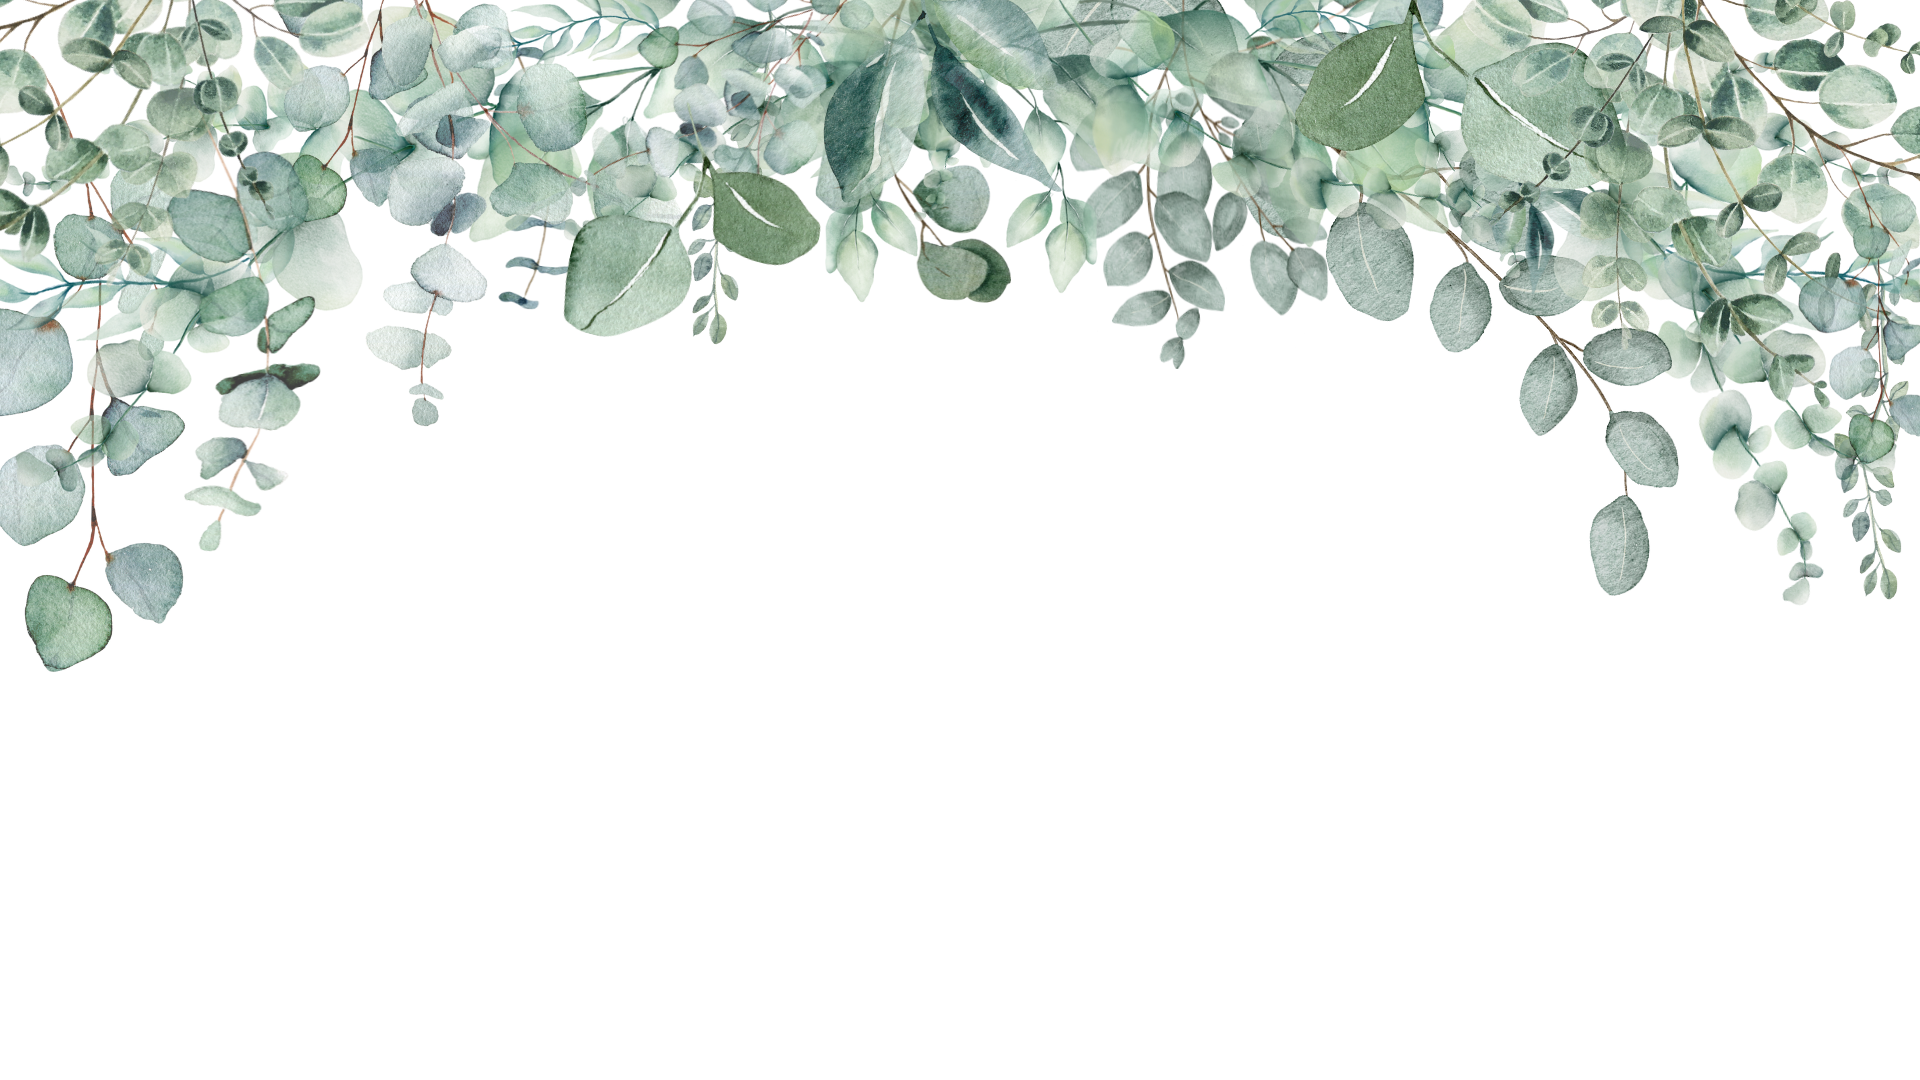
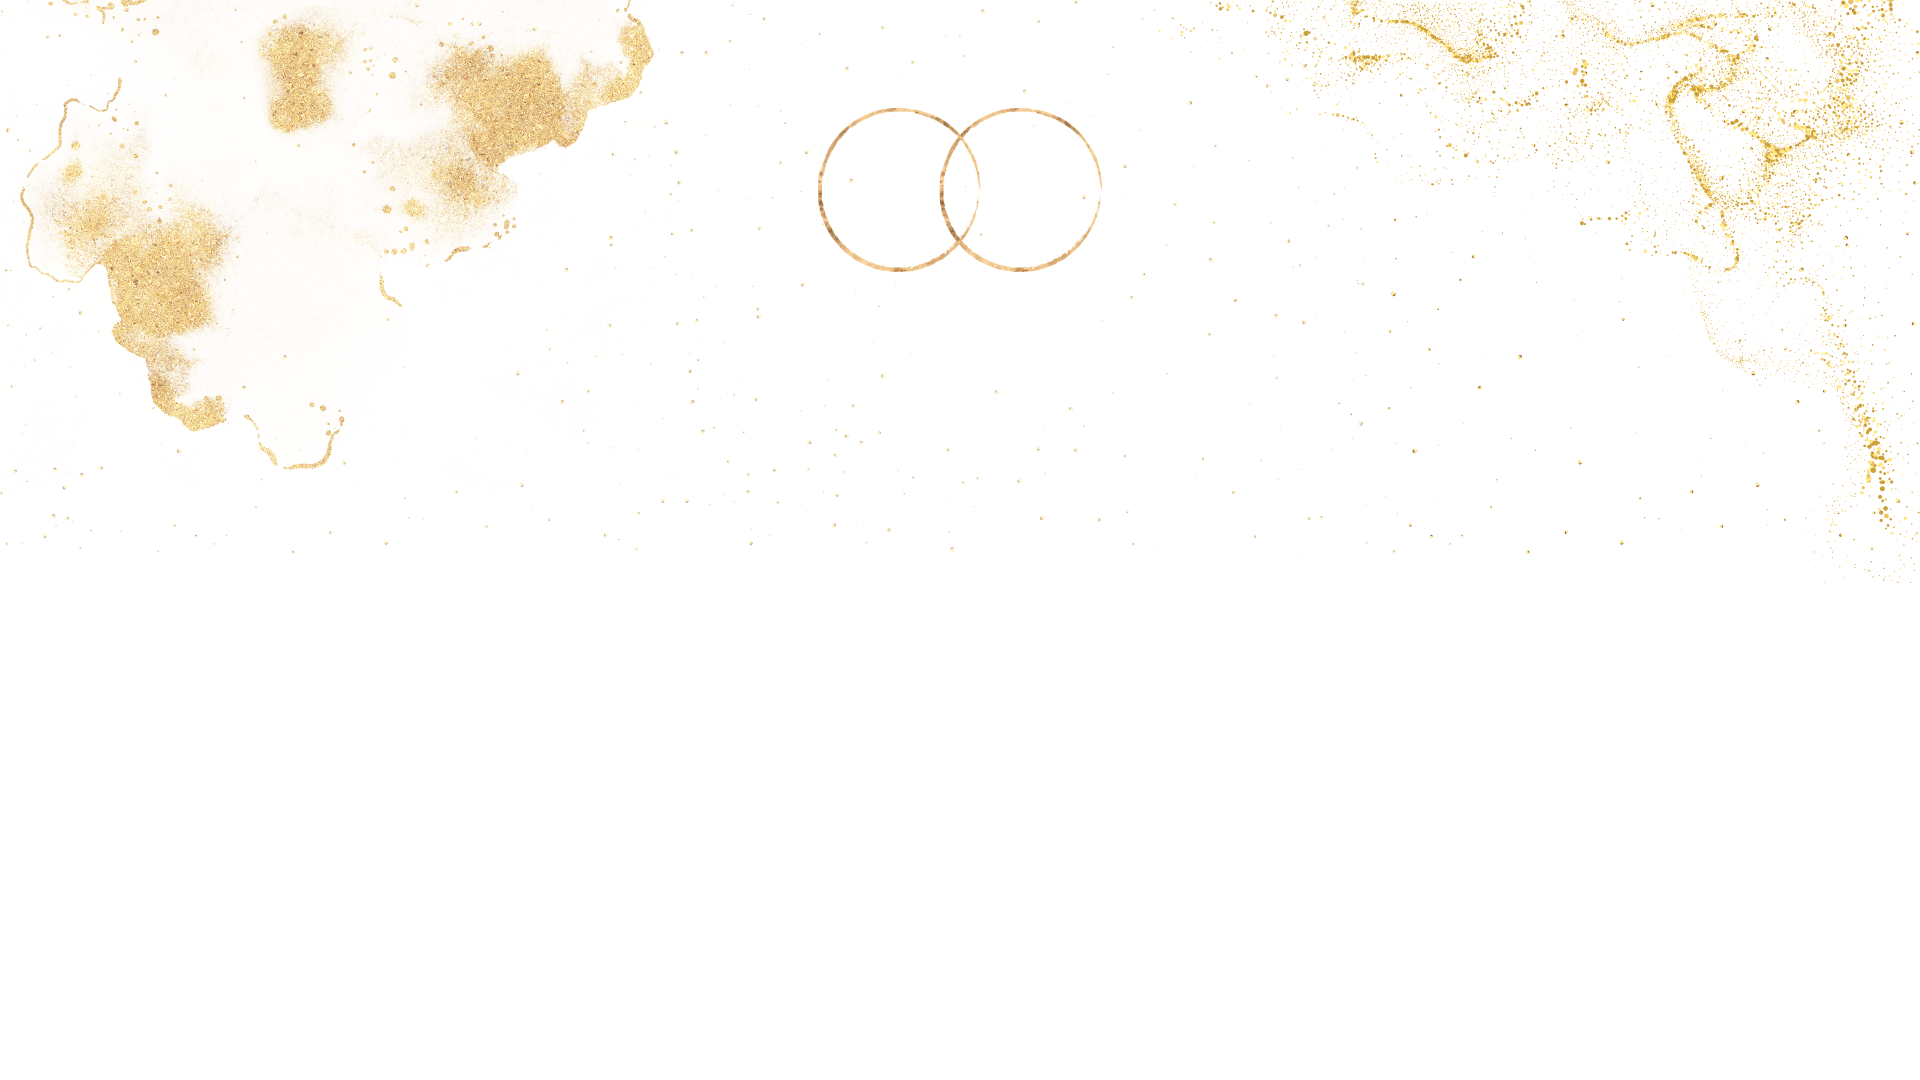
changes

Changed region(s): [[0.0, 0.0, 1.0, 0.6111]]

diff --git a/components/About.tsx b/components/About.tsx
@@ -1,8 +1,16 @@
 import React from "react";
 import Image from "next/image";
+import {
+  Carousel,
+  CarouselContent,
+  CarouselItem,
+  CarouselNext,
+  CarouselPrevious,
+} from "@/components/ui/carousel";
 
 function About() {
   return (
+    <>
     <div className=" w-full flex flex-col lg:flex-row px-6 xl:px-12 rounded-md">
      
       <div className="h-[90vh] md:h-[70vh] xl:h-[70vh] w-full bg-zlata/40 flex flex-col justify-center items-center lg:py-8 rounded-md">
@@ -22,24 +30,73 @@ function About() {
       </div>
       <div className="relative h-[60vh] -top-[10vh] lg:top-0 lg:h-auto w-full lg:w-[50%] xl:w-[35%] bg-zlata rounded-md">
           <Image
-            src={"/DSC_6254.jpeg"}
+            src={"/foto1.jpg"}
             alt="img1"
             fill
-            className="object-cover object-center md:object-center rounded-md ring-4 ring-bezova ring-offset-8 ring-opacity-50"
+            className="hidden lg:block object-cover object-center md:object-center rounded-md ring-4 ring-bezova ring-offset-8 ring-opacity-50"
           />
+          {/*carousel*/}
+          <Carousel opts={{ loop:true}} className="relative lg:hidden w-full h-[60vh] rounded-md">
+            <CarouselContent className="w-full h-[60vh]">
+              <CarouselItem className="h-full w-full">
+                <div className="w-full h-full relative">
+                  <Image
+                    src={"/foto1.jpg"}
+                    alt="foto1"
+                    className="object-center object-cover"
+                    fill
+                  />
+                </div>
+              </CarouselItem>
+              <CarouselItem className="h-full w-full">
+                <div className="w-full h-full relative">
+                  <Image
+                    src={"/foto2.jpg"}
+                    alt="foto2"
+                    className="object-center object-cover"
+                    fill
+                  />
+                </div>
+              </CarouselItem>
+              <CarouselItem className="h-full w-full">
+                <div className="w-full h-full relative">
+                  <Image
+                    src={"/foto3.jpg"}
+                    alt="foto3"
+                    className="object-center object-cover"
+                    fill
+                  />
+                </div>
+              </CarouselItem>
+              <CarouselItem className="h-full w-full">
+                <div className="w-full h-full relative">
+                  <Image
+                    src={"/foto4.jpg"}
+                    alt="foto4"
+                    className="object-center object-cover"
+                    fill
+                  />
+                </div>
+              </CarouselItem>
+            </CarouselContent>
+            <CarouselPrevious className="bg-white border-zlata text-zlata left-2" />
+            <CarouselNext className="bg-white border-zlata text-zlata right-2"  />
+          </Carousel>
       </div>
-      {/* <div className="relative xl:h-[100vh] -top-24 md:-top-40 lg:-top-16 xl:-top-36 2xl:-top-48 space-y-6 md:space-y-10 lg:space-y-0 w-full p-8 lg:p-4 flex flex-col lg:flex-row items-center justify-evenly ">
+    </div>
+    
+    <div className="hidden mt-12 lg:flex relative xl:h-[100vh] space-y-6 md:space-y-10 lg:space-y-0 w-full p-2  flex-col lg:flex-row items-center justify-evenly ">
         <div className="relative h-[60vh] lg:h-[70vh] w-full lg:w-[22%] bg-bezova rounded-md">
           <Image
-            src={"/DSC_6254.jpeg"}
+            src={"/foto2.jpg"}
             alt="img1"
             fill
             className="object-cover object-center md:object-center rounded-md ring-4 ring-bezova ring-offset-8 ring-opacity-50"
           />
-        </div> */}
-        {/* <div className="hidden lg:block relative h-[50vh] lg:h-[70vh] w-full lg:w-[22%]  bg-bezova rounded-md">
+        </div>
+        <div className="hidden lg:block relative h-[50vh] lg:h-[70vh] w-full lg:w-[22%]  bg-bezova rounded-md">
           <Image
-            src={"/img-856.jpg"}
+            src={"/foto3.jpg"}
             alt="img1"
             fill
             className="object-cover object-center rounded-md ring-4 ring-bezova ring-offset-8 ring-opacity-50"
@@ -47,23 +104,14 @@ function About() {
         </div>
         <div className="hidden lg:block relative h-[50vh] lg:h-[70vh] w-full lg:w-[22%]  bg-bezova rounded-md">
           <Image
-            src={"/img-857.jpg"}
+            src={"/foto4.jpg"}
             alt="img1"
             fill
             className="object-cover object-center rounded-md ring-4 ring-bezova ring-offset-8 ring-opacity-50"
           />
         </div>
-        <div className="relative h-[60vh] lg:h-[70vh] w-full lg:w-[22%]  bg-bezova rounded-md">
-          <Image
-            src={"/img-858.jpg"}
-            alt="img1"
-            fill
-            className="object-cover object-center md:object-bottom rounded-md ring-4 ring-bezova ring-offset-8 ring-opacity-50"
-          />
-        </div> */}
-      {/* </div> */}
-      {/* <div className="relative -top-16 h-[2px] w-3/4 mx-auto bg-zelena"></div> */}
-    </div>
+      </div>
+    </>
   );
 }
 

diff --git a/components/Hero.tsx b/components/Hero.tsx
@@ -7,15 +7,15 @@ function Hero() {
     <div className="h-[100svh] w-full flex flex-col items-center justify-center py-8 lg:pt-32">
       <div
         id="bg"
-        className="hidden lg:block w-full h-full absolute top-0 left-0 bg-[url('/uvod.png')] bg-no-repeat bg-top bg-cover opacity-30"
+        className="hidden lg:block w-full h-full absolute top-0 left-0 bg-[url('/uvod.png')] bg-no-repeat bg-top bg-cover"
       ></div>
       <div
         id="bg"
-        className="w-full h-full lg:hidden absolute top-0 left-0 bg-[url('/eucalypto_mobil.png')] bg-no-repeat bg-top bg-cover opacity-30"
+        className="w-full h-full lg:hidden absolute top-0 left-0 bg-[url('/uvodmobil.png')] bg-no-repeat bg-top bg-cover"
       ></div>
       <Herotext />
 
-      <div className="w-full absolute inset-0 h-screen">
+      <div className="w-full absolute inset-0 h-screen opacity-40">
         <SparklesCore
           id="tsparticlesfullpage"
           background="transparent"

diff --git a/app/dotaznik/page.tsx b/app/dotaznik/page.tsx
@@ -5,9 +5,9 @@ import { FaArrowLeft } from 'react-icons/fa'
 
 function page() {
   return (
-    <div className='h-screen w-full bg-zelena'>
+    <div className='h-screen w-full bg-white'>
       <Link href={"/"} className='relative xl:absolute top-5 left-5  xl:top-10 xl:left-10 text-[2.5rem] xl:text-[4rem] text-black py-8'><FaArrowLeft/></Link>
-     
+      <iframe src="https://docs.google.com/forms/d/e/1FAIpQLSd5I7_8mC1B4DwCLeqdBzhpeLVs9TSvHrvkIvxQnJa61zei6Q/viewform?embedded=true" className='w-full h-full' >Načítání…</iframe>
     </div>
   )
 }

diff --git a/components/ui/carousel.tsx b/components/ui/carousel.tsx
@@ -162,7 +162,7 @@ const CarouselContent = React.forwardRef<
         ref={ref}
         className={cn(
           "flex",
-          orientation === "horizontal" ? "-ml-12" : "-mt-4 flex-col",
+          orientation === "horizontal" ? "" : "-mt-4 flex-col",
           className
         )}
         {...props}

diff --git a/components/ui/Sparkles.tsx b/components/ui/Sparkles.tsx
@@ -103,7 +103,7 @@ export const SparklesCore = (props: ParticlesProps) => {
               },
               collisions: {
                 absorb: {
-                  speed: 2,
+                  speed: 1,
                 },
                 bounce: {
                   horizontal: {
